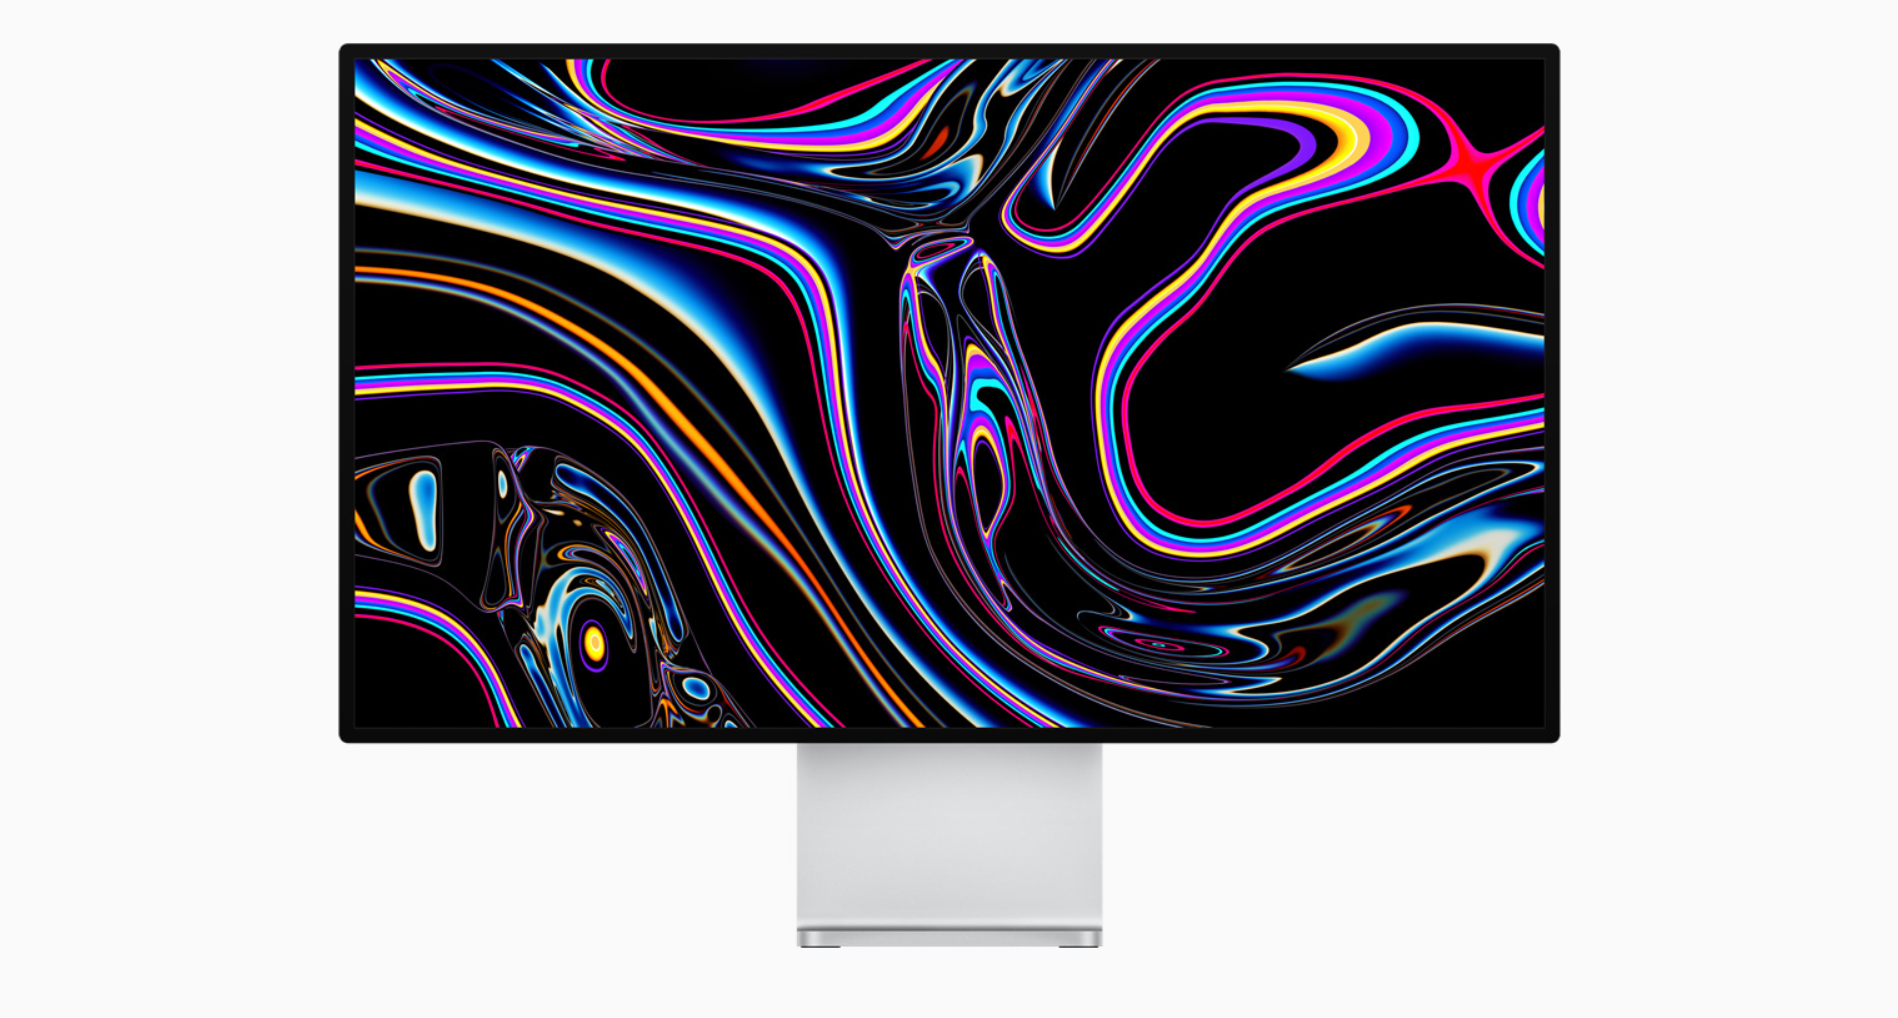
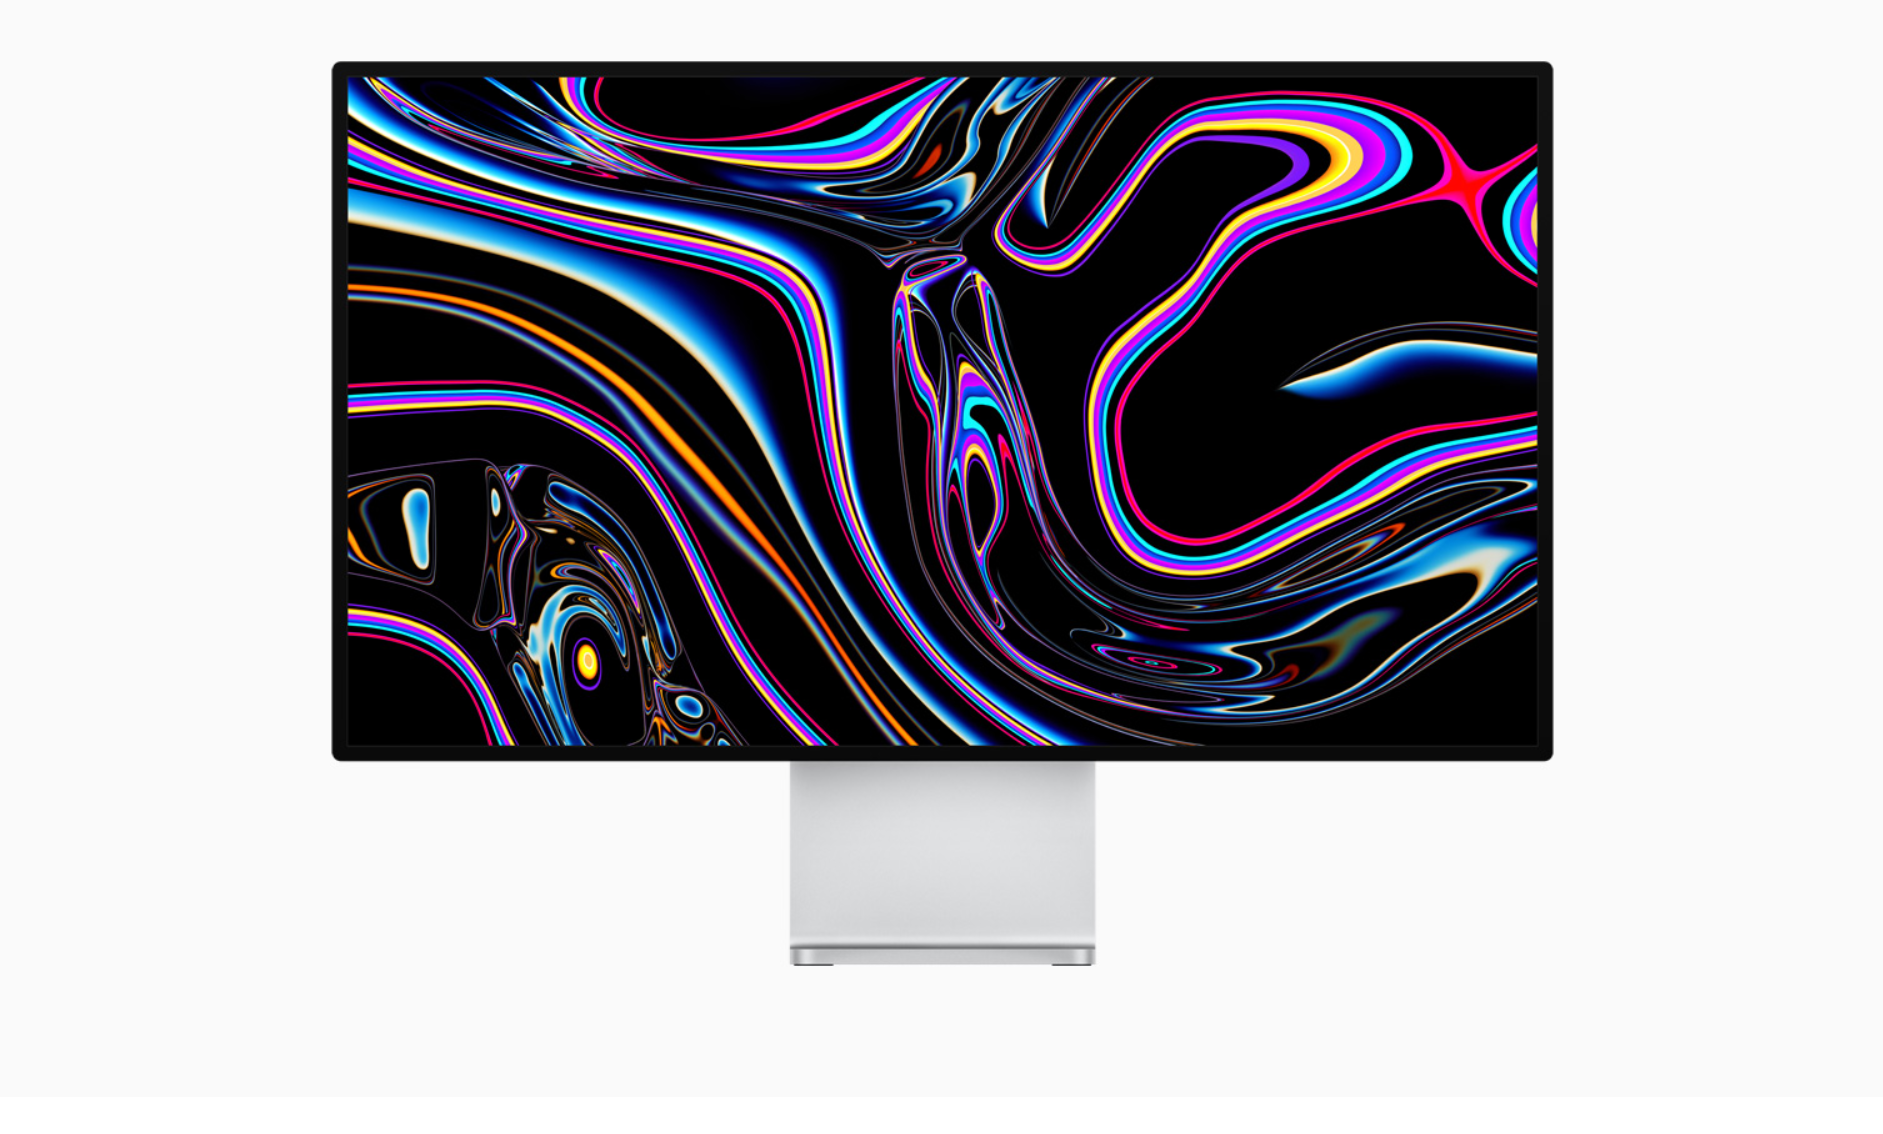
徐梦：修改图片细节

Changed region(s): [[0.154, 0.0305, 0.8317, 0.7613], [0.4004, 0.8222, 0.5852, 0.944]]

diff --git a/Mac.html b/Mac.html
@@ -10,20 +10,36 @@
 </head>
 <body>
     <div class="container">
-        <h2 class="mac">Mac Pro</div>
-        <h3 class="shili">以实力刷新一切。</div>
+        <h2 class="mac">Mac Pro</h2>
+        <h3 class="shili">以实力刷新一切。</h3>
         <p><a href="https://www.apple.com/cn/mac-pro/" >进一步了解 > </a></p>
-        <img src="./mac_1.jpg" width="1510px" >
+        <img src="./mac_1.png" width="1519px" >
     </div>
-        
-    
+
+
+
     <div class="container">
-        <h2 class="mac">Pro Display XDR</div>
-        <h3 class="shili">征服双眼，震撼人心。</div>
+        <h2 class="mac">Pro Display XDR</h2>
+        <h3 class="shili">征服双眼，震撼人心。</h3>
         <p><a href="https://www.apple.com/cn/pro-display-xdr/" >进一步了解 > </a></p>
-        <img src="./mac_2.png" width="1510px" >
+        <img src="./mac_2.png" width="1519px" >
     </div>
-    
+
+    <div class="container">
+        <h2 class="mac">macOS Catalina</h2>
+        <h3 class="shili">Mac 的本领，</h3>
+        <h3 class="shili">突飞猛进。</h3>
+        <p><a href="https://www.apple.com/cn/macos/catalina-preview/" >查看预览 > </a></p>
+        <img src="./mac_3.png" width="1519px" >
+    </div>
+
+    <div class="container">
+        <h2 class="final">Final Cut Pro</h2>
+        <h3 class="houqi">后期制作，</h3>
+        <h3 class="houqi">上演华丽一幕。</h3>
+        <p class="hei"><a href="https://www.apple.com/cn/final-cut-pro/" >进一步了解 > </a></p>
+        <img src="./mac_4.png" width="1519px" >
+    </div>
 
 
 

diff --git a/Mac.css b/Mac.css
@@ -1,17 +1,17 @@
 body{
     margin: 0px;
-
 }
 .mac {
     text-align: center;
     margin: 0px;
     font-size: 34px;
     background-color:#fafafa;
+    padding-top: 71px;
    /* line-height: 1em;*/
 }
 .shili {
     text-align: center;
-    font-size: 50px;
+    font-size: 56px;
     margin: 0px;
     background-color:#fafafa;
     /*margin-bottom: 1px;*/
@@ -20,11 +20,44 @@ body{
 p{
     text-align: center;
     margin: 0px;
+    padding-top: .8em;
+    background-color: #fafafa;
 }
 
-    
+p.hei{
+    text-align: center;
+    margin-top: 0px;
+    background-color: #1b191c;
+    padding-top: .8em;
+}
 
-a:link {text-decoration:none;color:#0070c9;font-size: 20px;}    /* unvisited link */
+
+.final {
+    text-align: center;
+    margin: 0px;
+    font-size: 34px;
+    color: #ffffff;
+    background-color:#1b191c;
+    padding-top: 71px;
+   /* line-height: 1em;*/
+}
+.houqi {
+    text-align: center;
+    font-size: 56px;
+    margin: 0px;
+    color: #ffffff;
+    background-color:#1b191c;
+    font-style: normal;
+    /*margin-bottom: 1px;*/
+    /*line-height: 1em;*/
+}
+
+
+a:link {text-decoration:none;font-size: 17px;}    /* unvisited link */
 a:visited {text-decoration:none;} /* visited link */
 a:hover {text-decoration:underline;}   /* mouse over link */
 a:active {text-decoration:underline;}  /* selected link */
+a:link {color:#0070c9;}      /* 未访问链接*/
+a:visited {color:#0070c9;}  /* 已访问链接 */
+a:hover {color:#0070c9;}  /* 鼠标移动到链接上 */
+a:active {color:#0070c9;}  /* 鼠标点击时 */
